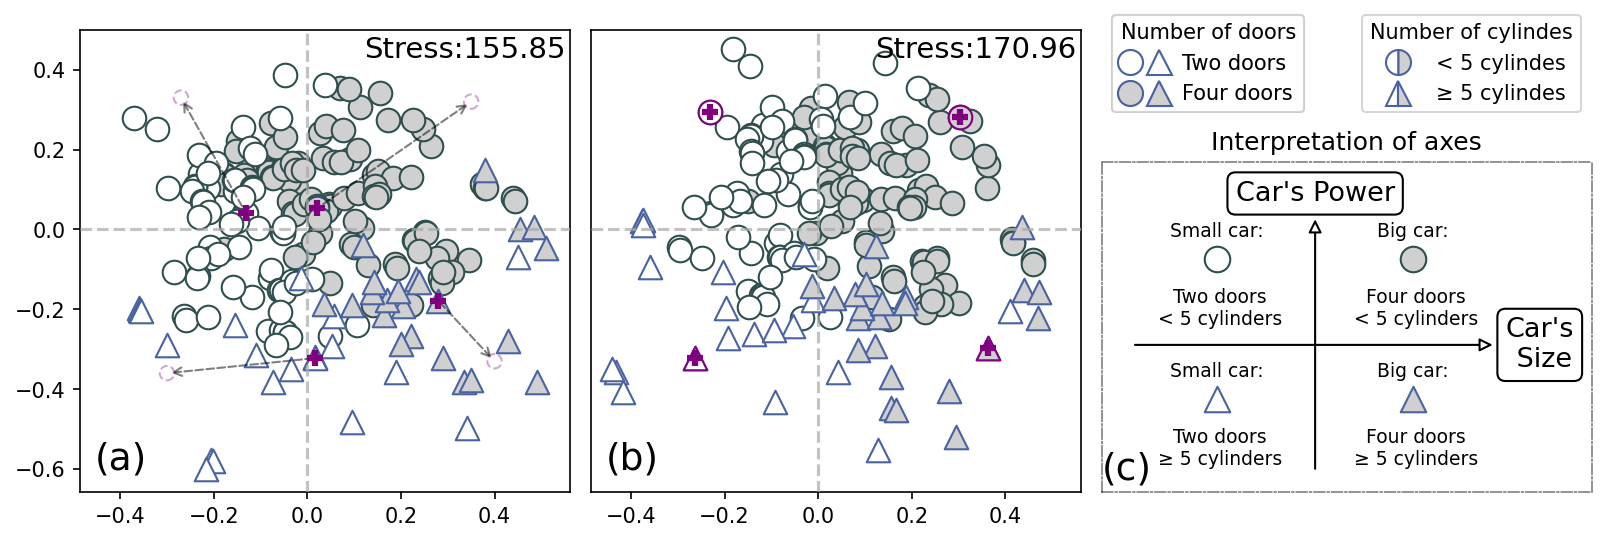
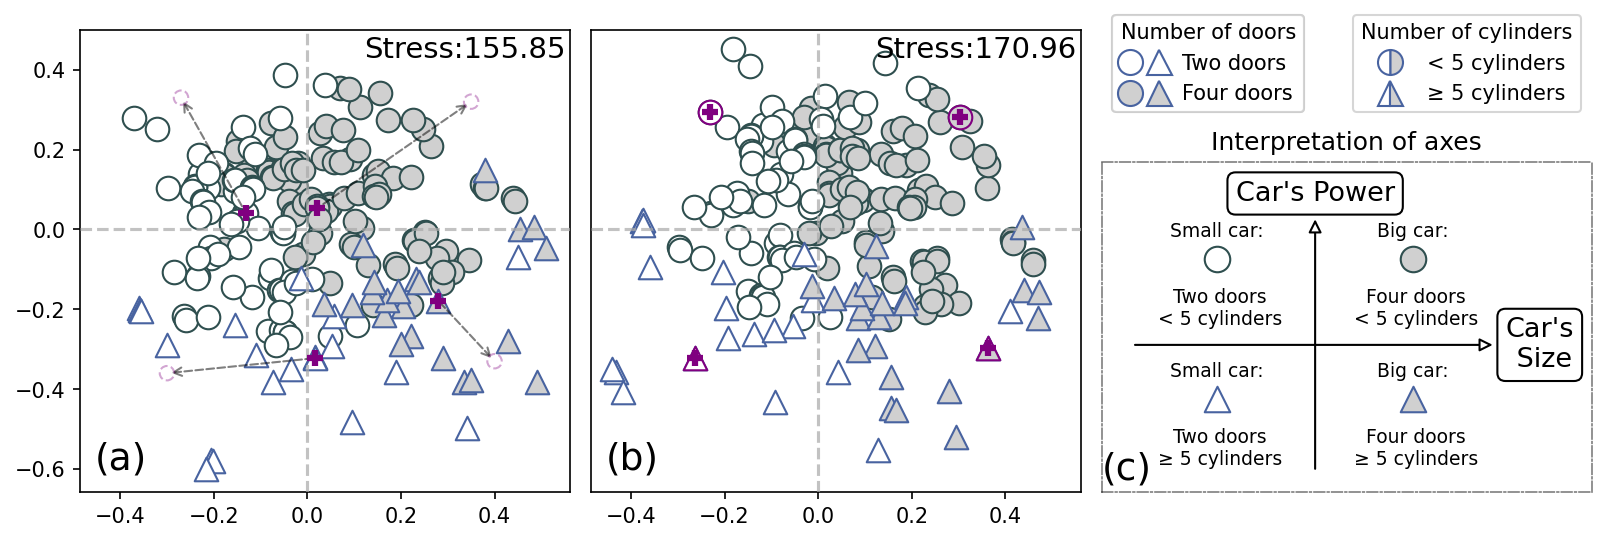
fix typo legend in automobile figure

Changed region(s): [[0.8406, 0.0295, 0.9651, 0.2066]]

diff --git a/plot.py b/plot.py
@@ -332,20 +332,20 @@ def _plot_automobile_legend(ax):
         )
 
     p3 = _invisible(
-        label="< 5 cylindes",
+        label="< 5 cylinders",
         marker="o",
         markerfacecoloralt="#D0D0D0",
         fillstyle="left",
     )
     p4 = _invisible(
-        label="≥ 5 cylindes",
+        label="≥ 5 cylinders",
         marker="^",
         markerfacecoloralt="#D0D0D0",
         fillstyle="left",
     )
 
     ax.axis("off")
-    lg1 = ax.legend(handles=[p3, p4], loc="center right", title="Number of cylindes")
+    lg1 = ax.legend(handles=[p3, p4], loc="center right", title="Number of cylinders")
     ax.add_artist(lg1)
 
     p11 = _invisible(label="Two doors", marker="o", markerfacecolor="white")
